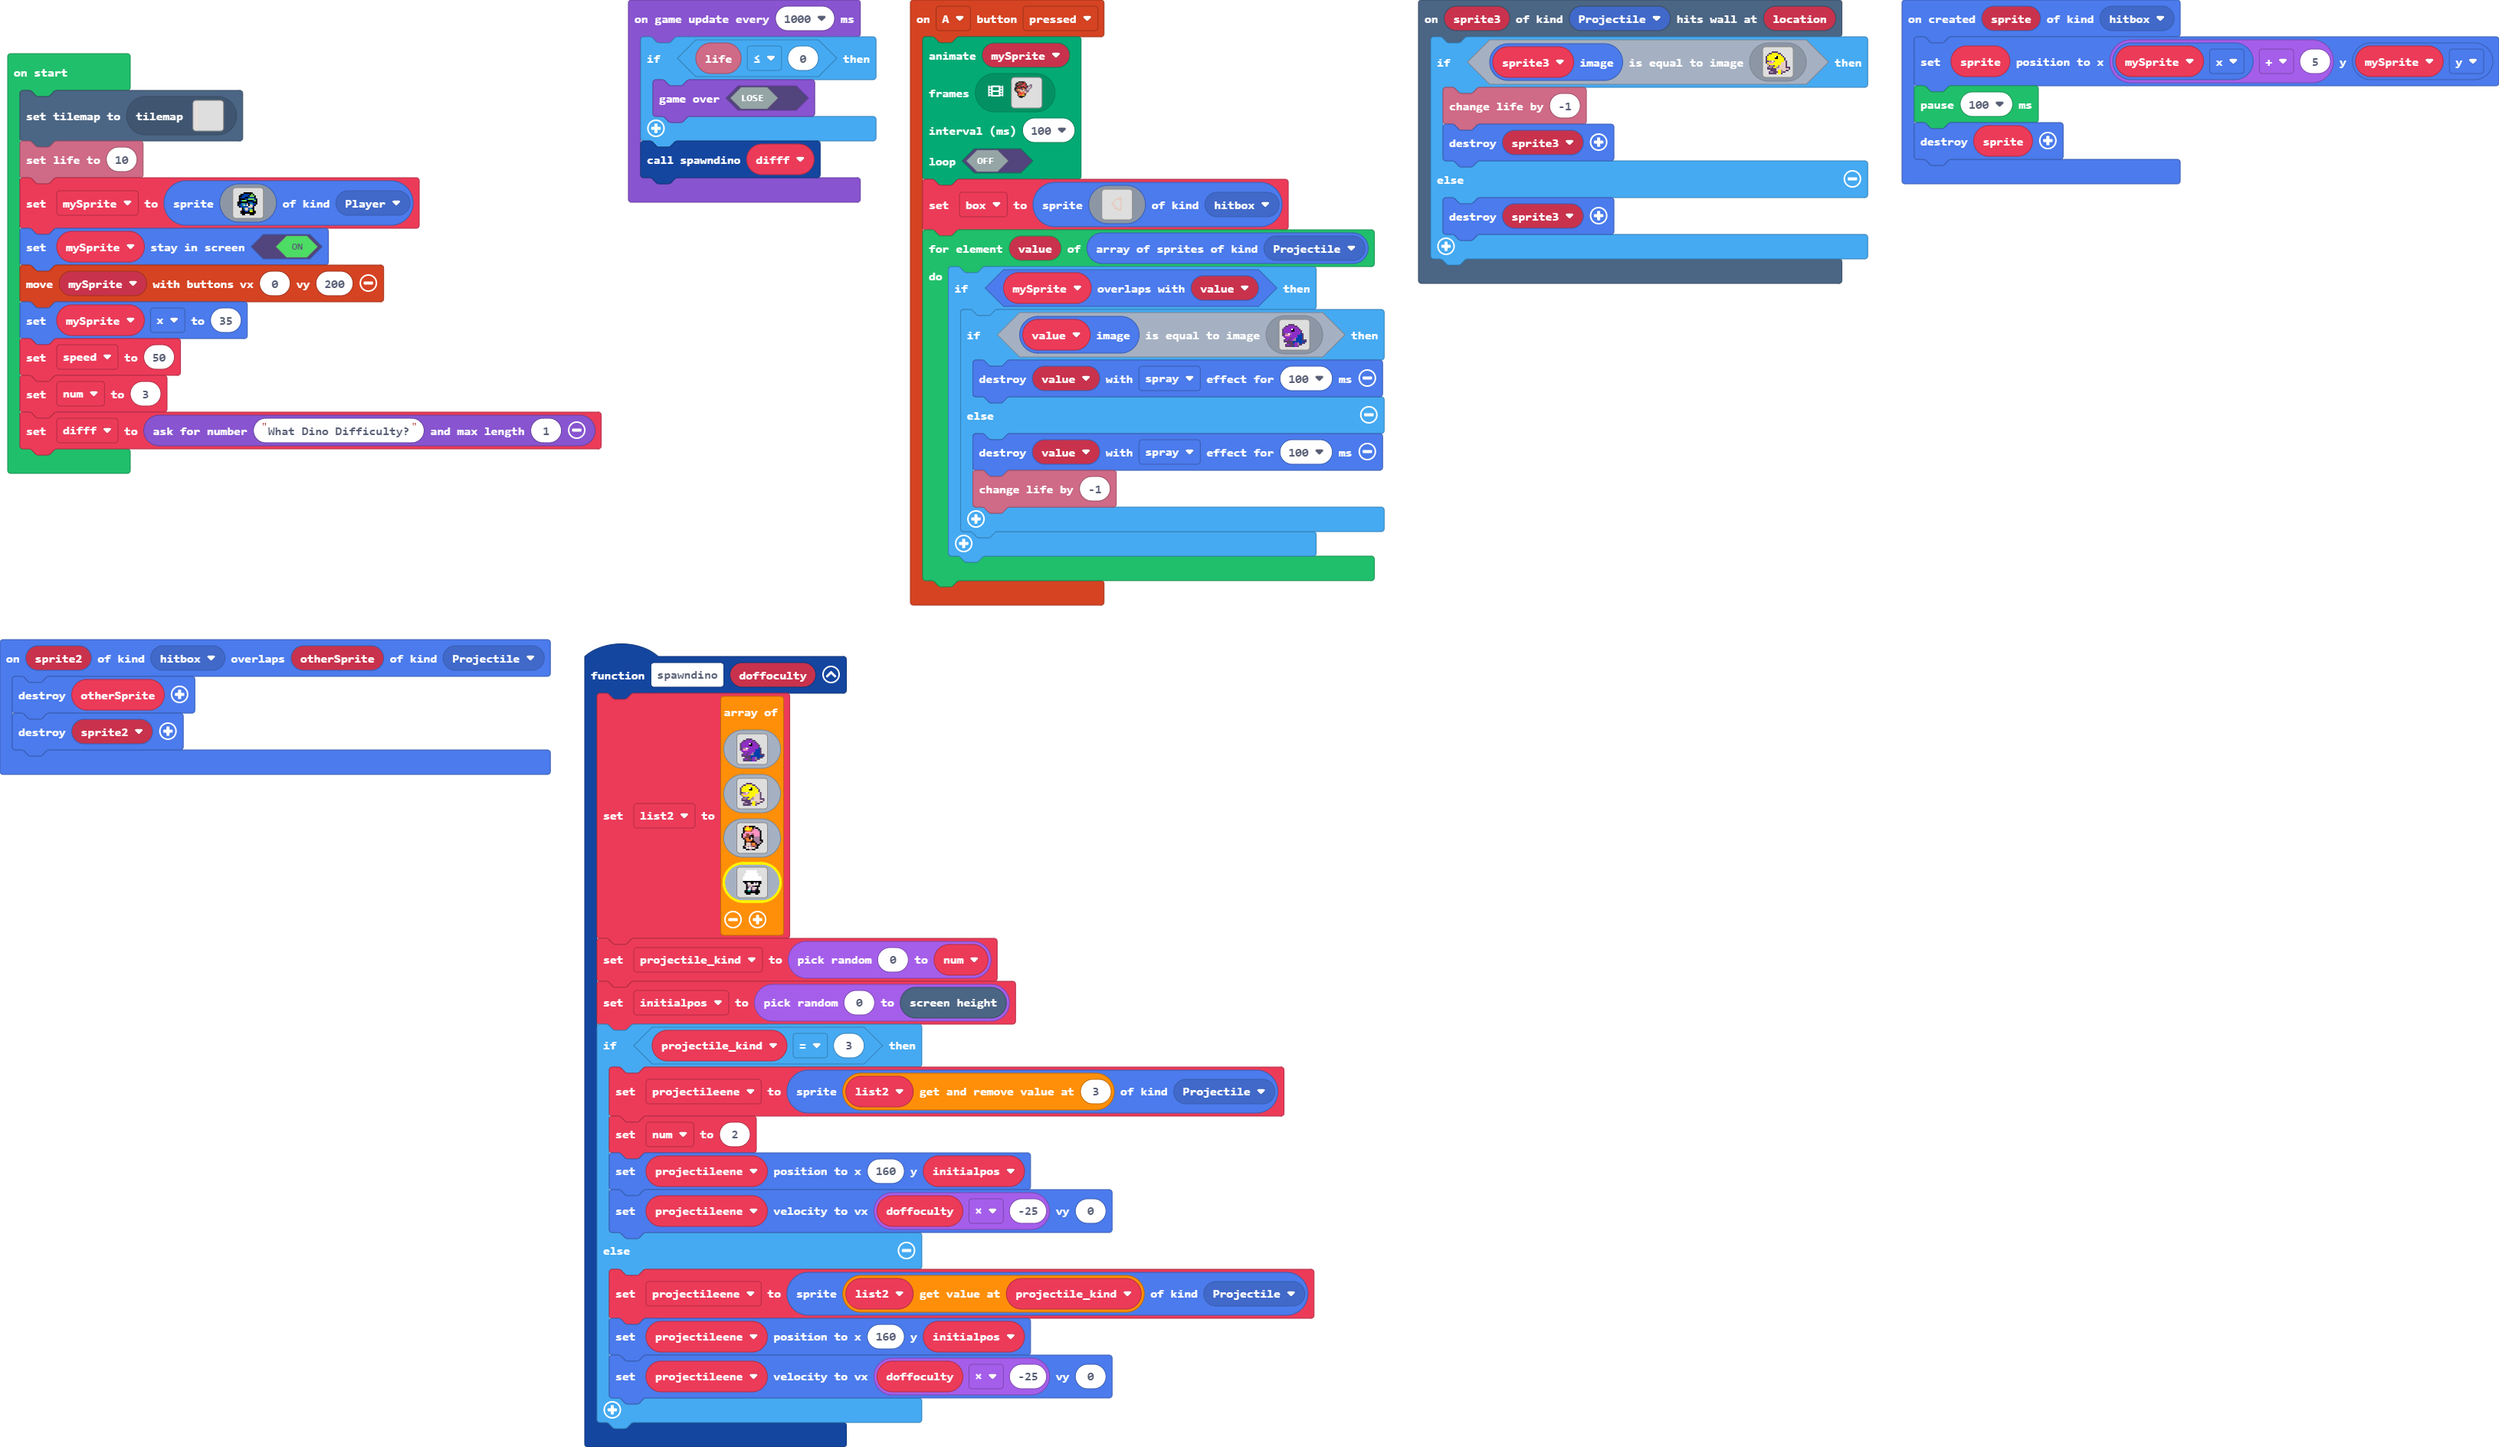
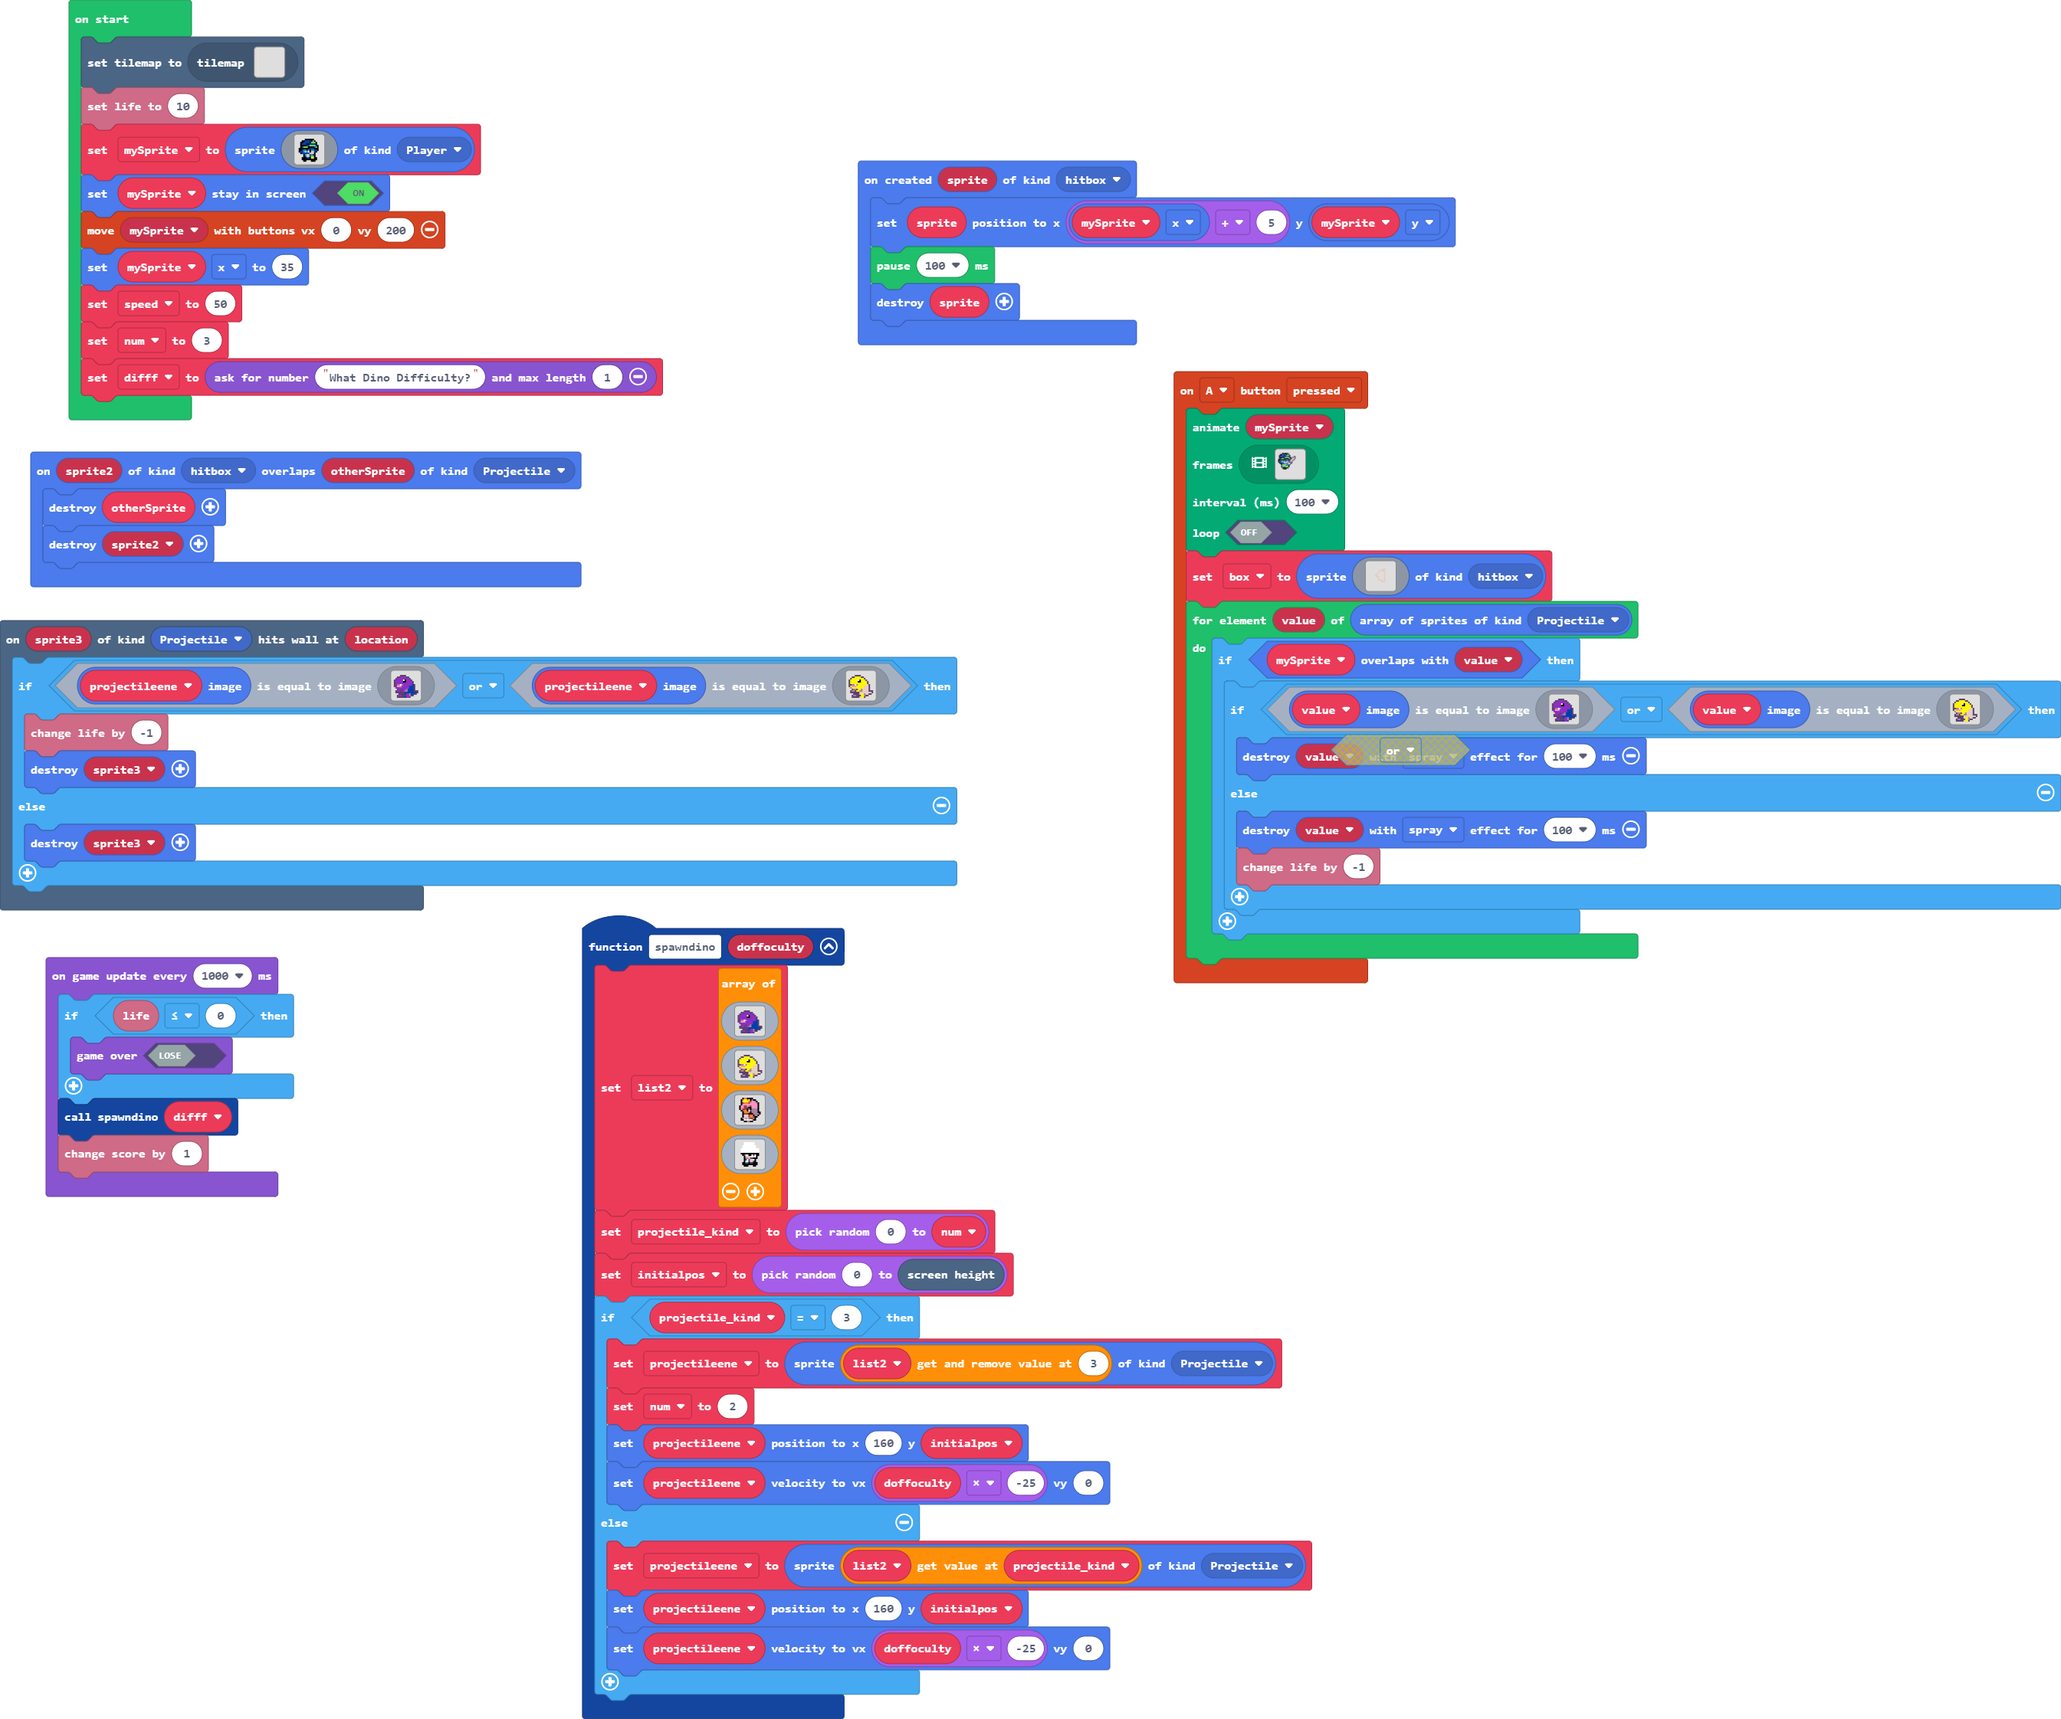
color assets

diff --git a/images.g.ts b/images.g.ts
@@ -127,19 +127,19 @@ f f f f f f f f f f f f
             case "anim1":return [img`
 ........................
 ....ffffff..............
-..ffeeeef2f.............
-.ffeeeef222f............
-.feeeffeeeef...cc.......
-.ffffee2222ef.cdc.......
-.fe222ffffe2fcddc.......
-fffffffeeeffcddc........
-ffe44ebf44ecddc.........
-fee4d41fddecdc..........
-.feee4dddedccc..........
-..ffee44e4dde...........
-...f222244ee............
-...f2222e2f.............
-...f444455f.............
+..ff8888f7f.............
+.ff8888f777f............
+.f888ff8888f...cc.......
+.ffff8877778f.cdc.......
+.f8777ffff87fcddc.......
+fffffff888ffcddc........
+ff8668bf668cddc.........
+f886d61fdd8cdc..........
+.f8886ddd8dccc..........
+..ff886686dd8...........
+...f77776688............
+...f777787f.............
+...f666655f.............
 ....ffffff..............
 .....fff................
 ........................
@@ -152,19 +152,19 @@ fee4d41fddecdc..........
 `, img`
 ........................
 .......fff..............
-....fffff2f.............
-..ffeeeee22ff...........
-.ffeeeeee222ff..........
-.feeeefffeeeef..........
-.fffffeee2222ef.........
-fffe222fffffe2f.........
-fffffffffeeefff.....cc..
-fefe44ebbf44eef...ccdc..
-.fee4d4bbfddef..ccddcc..
-..feee4dddddfeecdddc....
-...f2222222eeddcdcc.....
-...f444445e44ddccc......
-...ffffffffeeee.........
+....fffff7f.............
+..ff8888877ff...........
+.ff888888777ff..........
+.f8888fff8888f..........
+.fffff88877778f.........
+fff8777fffff87f.........
+fffffffff888fff.....cc..
+f8f8668bbf6688f...ccdc..
+.f886d6bbfdd8f..ccddcc..
+..f8886dddddf88cdddc....
+...f777777788ddcdcc.....
+...f666665866ddccc......
+...ffffffff8888.........
 ...fff...ff.............
 ........................
 ........................

diff --git a/main.ts b/main.ts
@@ -7,7 +7,7 @@ namespace SpriteKind {
     export const right = SpriteKind.create()
 }
 scene.onHitWall(SpriteKind.Projectile, function (sprite3, location) {
-    if (sprite3.image.equals(assets.image`yellowdino`)) {
+    if (projectileene.image.equals(assets.image`purpdino`) || projectileene.image.equals(assets.image`yellowdino`)) {
         info.changeLifeBy(-1)
         sprites.destroy(sprite3)
     } else {
@@ -48,7 +48,7 @@ controller.A.onEvent(ControllerButtonEvent.Pressed, function () {
     box = sprites.create(assets.image`hitbox`, SpriteKind.hitbox)
     for (let value of sprites.allOfKind(SpriteKind.Projectile)) {
         if (mySprite.overlapsWith(value)) {
-            if (value.image.equals(assets.image`purpdino`)) {
+            if (value.image.equals(assets.image`purpdino`) || value.image.equals(assets.image`yellowdino`)) {
                 sprites.destroy(value, effects.spray, 100)
             } else {
                 sprites.destroy(value, effects.spray, 100)
@@ -63,10 +63,10 @@ sprites.onCreated(SpriteKind.hitbox, function (sprite) {
     sprites.destroy(sprite)
 })
 let box: Sprite = null
-let projectileene: Sprite = null
 let initialpos = 0
 let projectile_kind = 0
 let list2: Image[] = []
+let projectileene: Sprite = null
 let num = 0
 let mySprite: Sprite = null
 tiles.setCurrentTilemap(tilemap`freedom`)
@@ -83,4 +83,5 @@ game.onUpdateInterval(1000, function () {
         game.gameOver(false)
     }
     spawndino(difff)
+    info.changeScoreBy(1)
 })

diff --git a/tilemap.g.ts b/tilemap.g.ts
@@ -131,6 +131,25 @@ namespace myTiles {
 . . . . . . . . . . . . . . . . 
 . . . . . . . . . . . . . . . . 
 `, [myTiles.transparency16], TileScale.Sixteen);
+            case "level7":
+            case "level7":return tiles.createTilemap(hex`1000100000000000000000000000000000000000000000000000000000000000000000000000000000000000000000000000000000000000000000000000000000000000000000000000000000000000000000000000000000000000000000000000000000000000000000000000000000000000000000000000000000000000000000000000000000000000000000000000000000000000000000000000000000000000000000000000000000000000000000000000000000000000000000000000000000000000000000000000000000000000000000000000000000000000000000000000000000000000000000000000000000000000000000000000000000000000`, img`
+. . . . . . . . . . . . . . . . 
+. . . . . . . . . . . . . . . . 
+. . . . . . . . . . . . . . . . 
+. . . . . . . . . . . . . . . . 
+. . . . . . . . . . . . . . . . 
+. . . . . . . . . . . . . . . . 
+. . . . . . . . . . . . . . . . 
+. . . . . . . . . . . . . . . . 
+. . . . . . . . . . . . . . . . 
+. . . . . . . . . . . . . . . . 
+. . . . . . . . . . . . . . . . 
+. . . . . . . . . . . . . . . . 
+. . . . . . . . . . . . . . . . 
+. . . . . . . . . . . . . . . . 
+. . . . . . . . . . . . . . . . 
+. . . . . . . . . . . . . . . . 
+`, [myTiles.transparency16], TileScale.Sixteen);
         }
         return null;
     })
